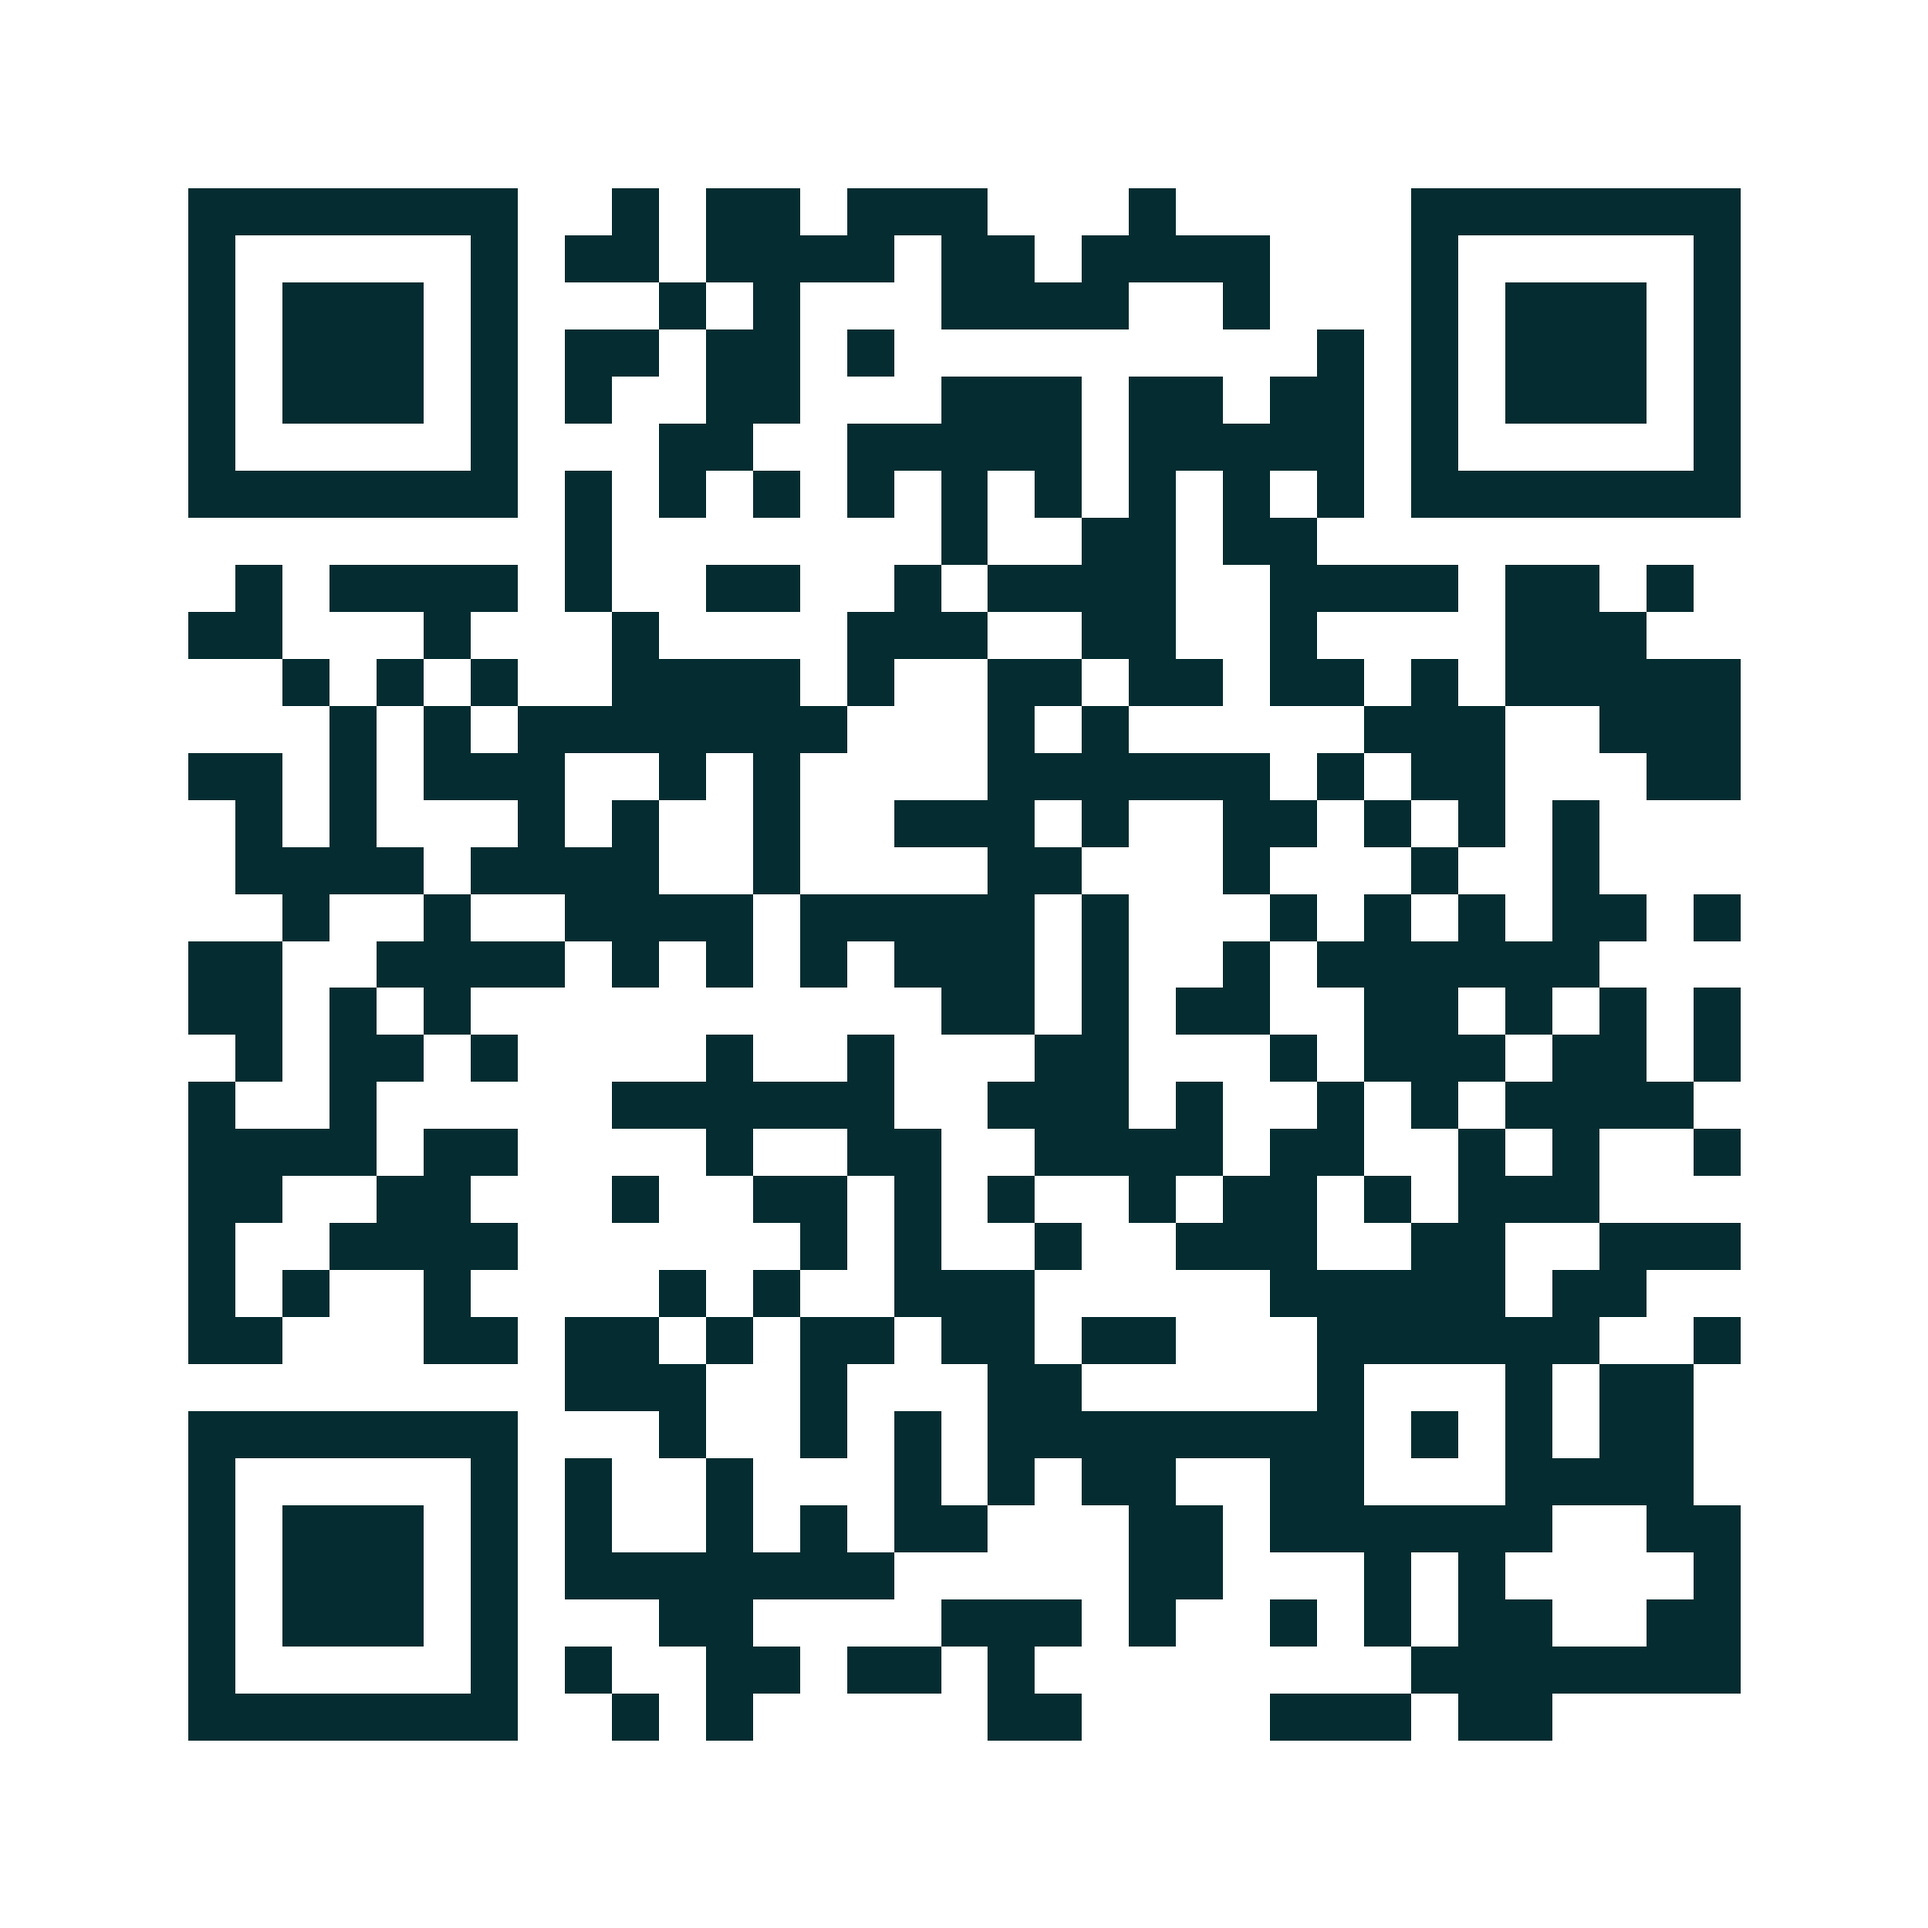
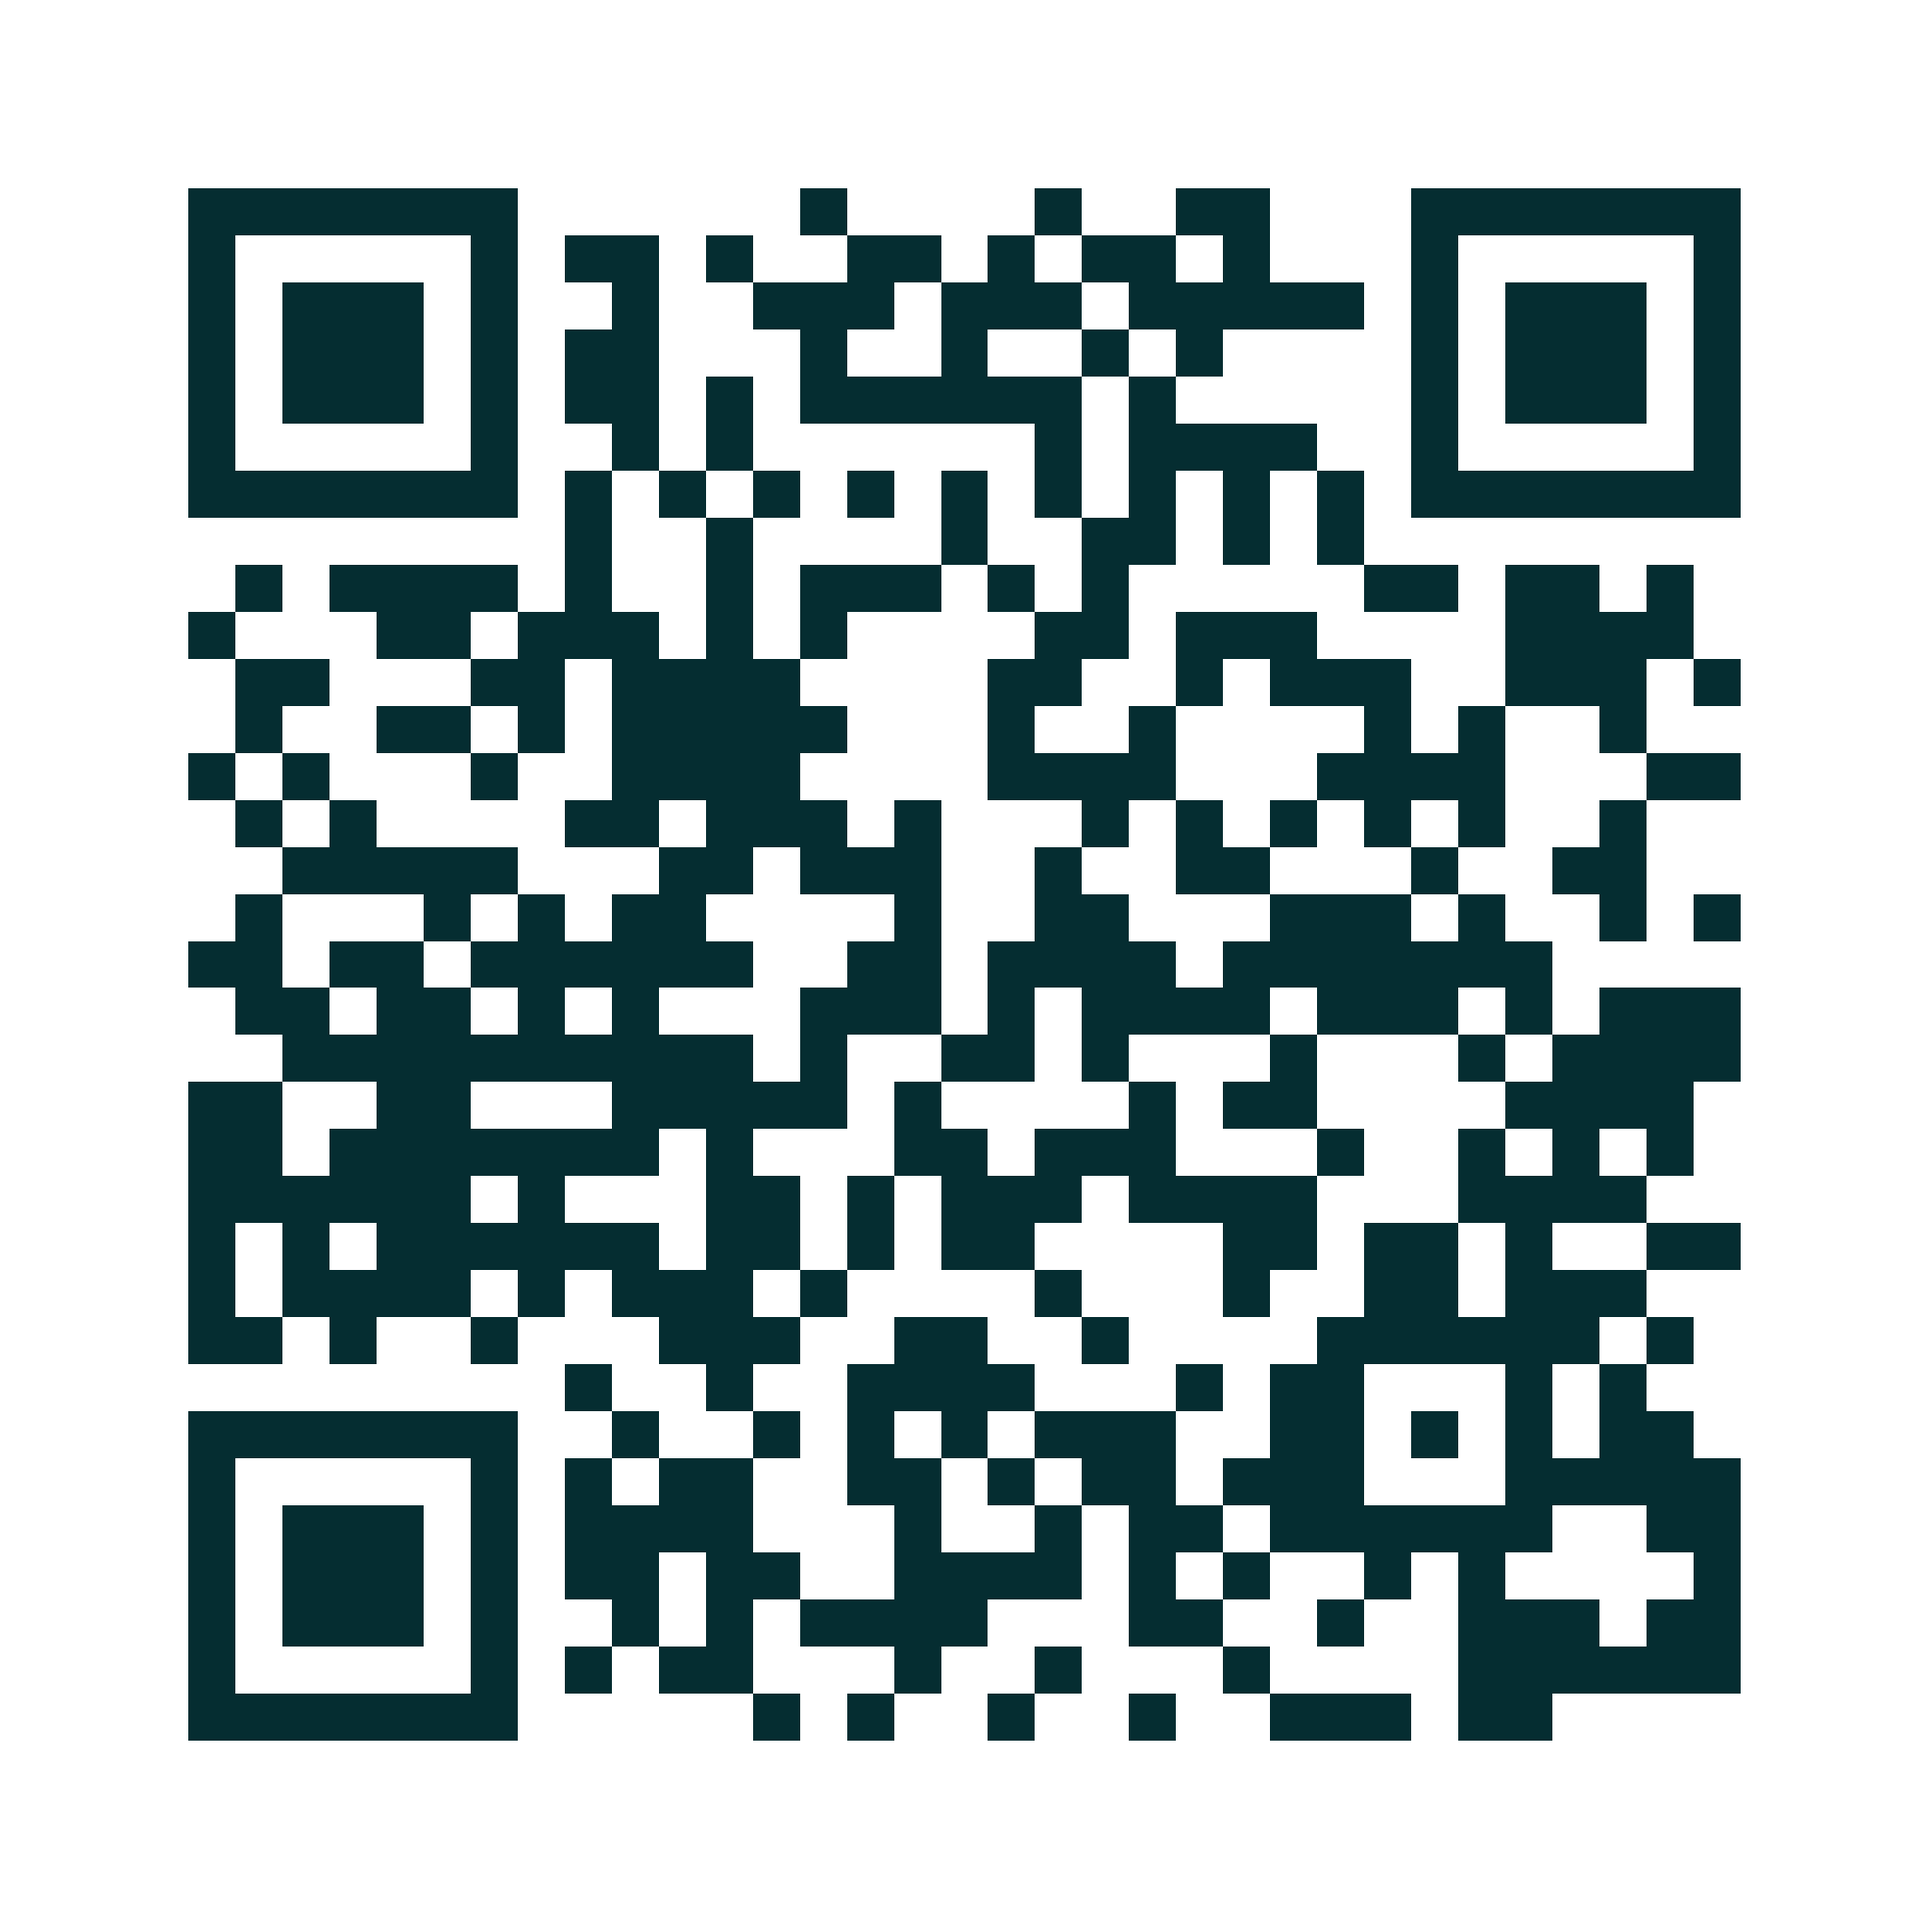
Canonicalise on www, which is what the domain actually serves
The apex 308-redirects to www, but canonicals, og:url, robots.txt and all
49 sitemap URLs named the apex. Google was being handed a sitemap of URLs
that redirect, and every page pointed its canonical at a URL that
redirects, which is what keeps pages out of the index and shows up as
"Page with redirect" in Search Console. It also mismatched the Search
Console property, which is the www one.

SITE_URL now defaults to https://www.skinessence2017.com, so canonicals,
og:url, the sitemap, robots.txt and the JSON-LD all move together.
NEXT_PUBLIC_SITE_URL still overrides it.

The printed QR code is regenerated against the www URL and decoded to
confirm; the apex version still works, since the apex redirects.

Also corrected two stale notes: the analytics endpoint allowlists both www
and the apex, so it works on the live site. It is Vercel preview origins it
refuses, not the live domain.

Changed region(s): [[0.0938, 0.0938, 0.9062, 0.9062], [0.7812, 0.8125, 0.8438, 0.875], [0.875, 0.75, 0.9062, 0.7812]]

diff --git a/lib/seo.ts b/lib/seo.ts
@@ -6,8 +6,15 @@ export const LOCALITY = "Kalyani Nagar, Pune";
 export const OG_LOCALE = "en_IN";
 export const HOME_TITLE = `MD Dermatologist in ${LOCALITY} | ${SITE_NAME}`;
 
-/** Canonical origin, no trailing slash. Override with NEXT_PUBLIC_SITE_URL. */
-export const SITE_URL = (process.env.NEXT_PUBLIC_SITE_URL ?? "https://skinessence2017.com").replace(/\/+$/, "");
+/**
+ * Canonical origin, no trailing slash. Override with NEXT_PUBLIC_SITE_URL.
+ *
+ * www, because that is what the domain actually serves: the apex 308-redirects
+ * to www. Canonicals, og:url, the sitemap, robots.txt and the JSON-LD all read
+ * from here, so this has to match the served host or Google is handed a list of
+ * URLs that redirect and pages go unindexed.
+ */
+export const SITE_URL = (process.env.NEXT_PUBLIC_SITE_URL ?? "https://www.skinessence2017.com").replace(/\/+$/, "");
 
 export function absoluteUrl(path = "/"): string {
   if (/^https?:\/\//.test(path)) return path;

diff --git a/components/layout/FunnelTracking.tsx b/components/layout/FunnelTracking.tsx
@@ -13,10 +13,9 @@ import Script from "next/script";
  * between them and the clinic. Our honeypot field ("website") is recognised
  * and bot submissions are dropped.
  *
- * Served from the clinic's own subdomain. That endpoint only accepts requests
- * from https://skinessence2017.com, so on any other origin (the Vercel staging
- * URL included) the script loads but its requests are refused, and nothing is
- * recorded until the real domain serves this site.
+ * Served from the clinic's own subdomain. That endpoint allowlists the live
+ * site, www and apex alike, but refuses other origins: on a Vercel preview URL
+ * the script loads and its requests are rejected, so nothing is recorded there.
  *
  * The key is a publishable client-side key, not a secret. Set
  * NEXT_PUBLIC_FUNNEL_KEY to "" to switch tracking off, or to another key to

diff --git a/README.md b/README.md
@@ -105,7 +105,7 @@ are invented in the data; the site renders "to be confirmed" states until they a
 - Breast Reshaping: not in the client's service list; no page and no form option
 - GTM container ID → `NEXT_PUBLIC_GTM_ID` (slot in `components/layout/Gtm.tsx`)
 - The entry popup (`components/lead/`, copy and timing in `content/pages/popup.json`) opens a few seconds after any page loads, except `/location`. This is the pattern Google treats as an intrusive interstitial on mobile; watch Search Console after launch and raise the delay, raise the repeat interval or set `enabled: false` if rankings move
-- Analytics loads from the clinic's own subdomain, `https://track.skinessence2017.com`, which only accepts requests from `https://skinessence2017.com`. Until that domain serves this site, every page on the staging URL logs a CORS error and sends no data, which also costs a Lighthouse best-practices point. Ask the vendor to allowlist the staging domain if the client wants to test the dashboard before launch
+- Analytics loads from the clinic's own subdomain, `https://track.skinessence2017.com`. It accepts both `https://www.skinessence2017.com` and the apex, so it works on the live site, but it refuses the Vercel preview origin: on a preview URL every page logs a CORS error and records nothing, which also costs a Lighthouse best-practices point. Ask the vendor to allowlist a preview domain if the client wants to test the dashboard from one
 - Funnel Agent analytics is live on every page (`components/layout/FunnelTracking.tsx`). It captures the booking form: name, phone, email, the treatment/concern and clinic dropdowns, and the WhatsApp consent box. Free text is not sent. Have the clinic confirm they have a data-processing agreement with the vendor, since a treatment enquiry tied to a name and number is health-related personal data. `NEXT_PUBLIC_FUNNEL_KEY=""` switches it off; `data-fa-no-capture` on a `<form>` exempts that form
 - The privacy policy now discloses the analytics service and the WhatsApp opt-in (`content/pages/privacy-policy.json`, updated 23 Sep 2026). Keep it in step with whatever the vendor actually receives
 - `content/testimonials.json` holds SAMPLE testimonials for layout; replace with consented Google reviews
@@ -122,7 +122,7 @@ the QR encodes the page, the floor, the arrival steps, the map link and the phon
 all change later without reprinting anything.
 
 ```bash
-npm run qr                                    # https://skinessence2017.com/location
+npm run qr                                    # https://www.skinessence2017.com/location
 npm run qr -- https://other-domain.com/location
 ```
 
